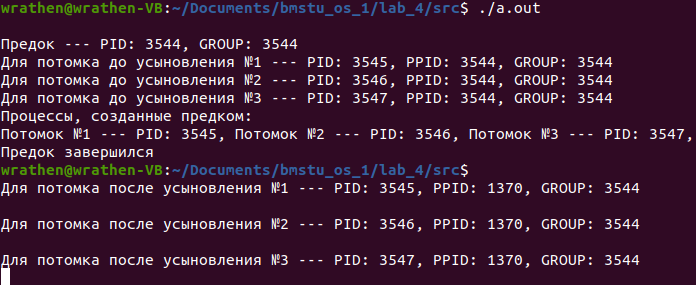
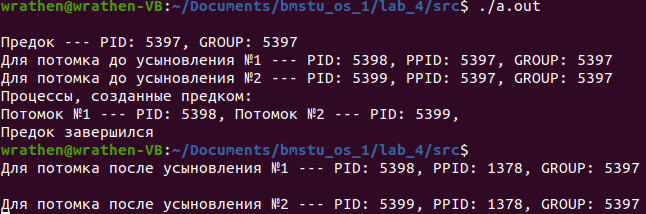
processes count changed to 2

Changed region(s): [[0.0, 0.1121, 1.0, 0.8131], [0.0, 0.8692, 0.9907, 1.0], [0.0, 0.0, 0.8359, 0.0841]]

diff --git a/lab_4/src/4_pipe.c b/lab_4/src/4_pipe.c
@@ -10,7 +10,7 @@ enum error_t {
     pipe_fail
 };
 
-#define PROC_COUNT 3
+#define PROC_COUNT 2
 #define SLEEP_TIME 2
 #define STR_BUFF_SIZE 64
 
@@ -21,7 +21,7 @@ int main() {
         return pipe_fail;
     }
 
-    char *msgs[PROC_COUNT] = {"First msg\n", "Second msg\n", "Third message\n"};
+    char *msgs[PROC_COUNT] = {"First msg\n", "__Second msg__\n", "___Third message___\n"};
     char str_buff[STR_BUFF_SIZE] = {0};
 
     int children[PROC_COUNT];

diff --git a/lab_4/src/5_signal.c b/lab_4/src/5_signal.c
@@ -11,12 +11,12 @@ enum error_t {
     pipe_fail
 };
 
-#define PROC_COUNT 3
+#define PROC_COUNT 2
 #define SLEEP_TIME 2
 #define STR_BUFF_SIZE 64
 
 void do_nothing(int sigint) {
-    printf("Ничего не происходит?\n");
+    printf("\n");
 }
 
 static int sig_status = 0;

diff --git a/lab_4/src/1_fork.c b/lab_4/src/1_fork.c
@@ -6,7 +6,7 @@ enum error_t {
     fork_failure
 };
 
-#define PROC_COUNT 3
+#define PROC_COUNT 2
 #define SLEEP_TIME 1
 
 int main() {

diff --git a/lab_4/src/2_wait.c b/lab_4/src/2_wait.c
@@ -7,7 +7,7 @@ enum error_t {
     fork_failure
 };
 
-#define PROC_COUNT 3
+#define PROC_COUNT 2
 #define SLEEP_TIME 1
 
 int main() {
